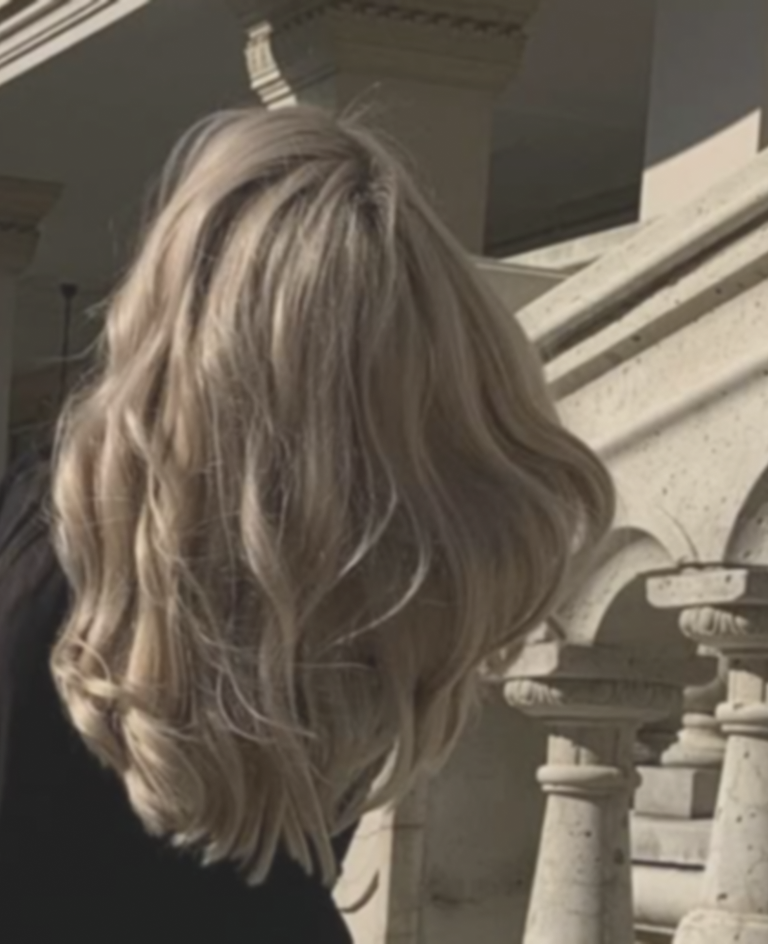
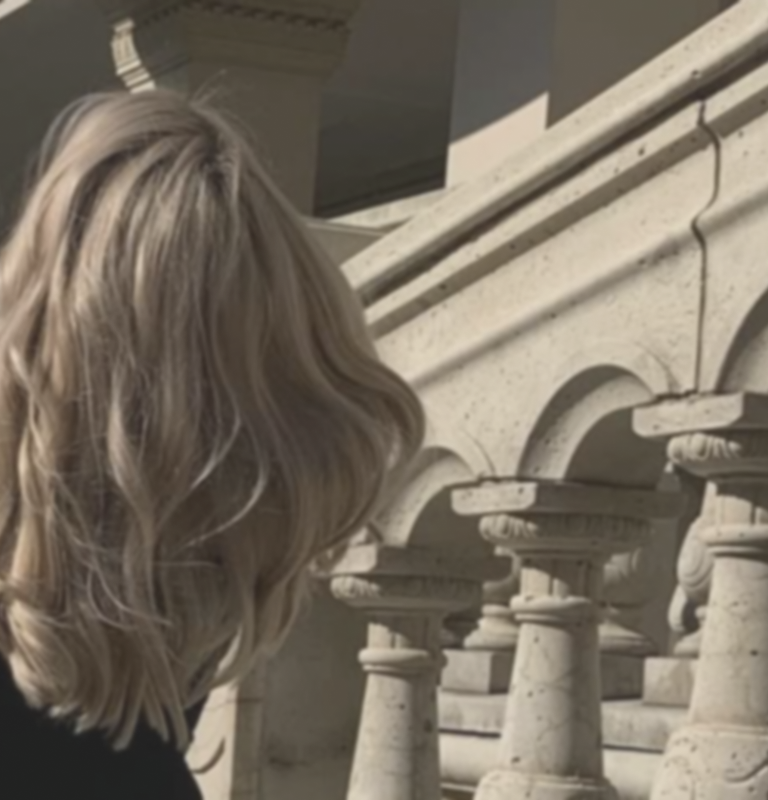
Fixes - price + main photo (tablet)

diff --git a/en/coloring.html b/en/coloring.html
@@ -33,7 +33,7 @@
         <div class="coloring-page-price-action-footnote">
             <div class="coloring-page-heading-price-action">
                 <div class="coloring-page coloring">
-                    <div class="text-header boveheading24regulardark">Hair Coloring Prices</div>
+                    <div class="text-header boveheading24regulardark">Hair Coloring</div>
                     <div class="coloring-rectangle coloring"></div>
                     <div class="coloring-page coloring bovebody20regularlight">
                         <div class="coloring-prices">
@@ -45,7 +45,7 @@
                             <div class="price">from 3500 ₴</div>
                         </div>
                         <div class="coloring-prices">
-                            <div class="text-regular">Single-tone <br />Coloring</div>
+                            <div class="text-regular">Single-tone Coloring</div>
                             <div class="price">3500-6000 ₴</div>
                         </div>
                         <div class="coloring-prices">
@@ -58,7 +58,7 @@
                         </div>
                         <div class="coloring-prices">
                             <p class="text-regular">
-                                Total blond <br />(root lightening<br />
+                                Total blond (root lightening<br />
                                 1.5 cm + toning)
                             </p>
                             <div class="price">4000-8000 ₴</div>
@@ -68,15 +68,15 @@
                             <div class="price">from 8000 ₴</div>
                         </div>
                         <div class="coloring-prices">
-                            <div class="text-regular">Partial Complex <br />Coloring</div>
+                            <div class="text-regular">Partial Complex Coloring</div>
                             <div class="price">from 8000 ₴</div>
                         </div>
                         <div class="coloring-prices">
-                            <div class="text-regular">Advanced Coloring<br /> Techniques</div>
+                            <div class="text-regular">Advanced Coloring Techniques</div>
                             <div class="price">from 12000 ₴</div>
                         </div>
                         <div class="coloring-prices">
-                            <div class="text-regular">Removing Black<br /> Color</div>
+                            <div class="text-regular">Removing Black Color</div>
                             <div class="price">from 20000 ₴</div>
                         </div>
                     </div>
@@ -93,7 +93,7 @@
         </div>
         <div class="coloring-page-title-body-text-footnote">
             <div class="coloring-page coloring">
-                <div class="text-header boveheading24regulardark">Color is a form of self-expression.</div>
+                <div class="text-header-2 boveheading24regulardark">Color is a form of self-expression.</div>
                 <p class="text-regular-color bovebody20regularlight">
                     We know how to bring out the best in your hair, whether you want a bold new shade, a gentle balayage, or a refreshing coloring to cover gray hair. Our professional approach guarantees bright and long-lasting results. The relaxed studio atmosphere and personalized attention make every visit an enjoyable experience. Additionally, the stylist uses only high-quality products that nourish your hair, keeping it healthy and well-groomed.
                 </p>

diff --git a/coloring.html b/coloring.html
@@ -32,7 +32,7 @@
           <div class="coloring-page-price-action-footnote">
             <div class="coloring-page-heading-price-action">
               <div class="coloring-page coloring">
-                <div class="text-header boveheading24regulardark">Ціни на фарбування</div>
+                <div class="text-header boveheading24regulardark">Фарбування</div>
                 <div class="coloring-rectangle coloring"></div>
                 <div class="coloring-page coloring bovebody20regularlight">
                   <div class="coloring-prices">
@@ -44,7 +44,7 @@
                     <div class="price">від 3500 ₴</div>
                   </div>
                   <div class="coloring-prices">
-                    <div class="text-regular">Однотонне <br />фарбування</div>
+                    <div class="text-regular">Однотонне фарбування</div>
                     <div class="price">3500-6000 ₴</div>
                   </div>
                   <div class="coloring-prices">
@@ -57,7 +57,7 @@
                   </div>
                   <div class="coloring-prices">
                     <p class="text-regular">
-                      Total blond <br />(висвітлення кореня<br />
+                      Total blond (висвітлення кореня<br />
                       1.5 см + тонування)
                     </p>
                     <div class="price">4000-8000 ₴</div>
@@ -67,15 +67,15 @@
                     <div class="price">від 8000 ₴</div>
                   </div>
                   <div class="coloring-prices">
-                    <div class="text-regular">Складне фарбування<br />частково</div>
+                    <div class="text-regular">Складне фарбування частково</div>
                     <div class="price">від 8000 ₴</div>
                   </div>
                   <div class="coloring-prices">
-                    <div class="text-regular">Складні техніки <br />фарбування</div>
+                    <div class="text-regular">Складні техніки фарбування</div>
                     <div class="price">від 12000 ₴</div>
                   </div>
                   <div class="coloring-prices">
-                    <div class="text-regular">Вихід з чорного<br />кольору</div>
+                    <div class="text-regular">Вихід з чорного кольору</div>
                     <div class="price">від 20000 ₴</div>
                   </div>
                 </div>
@@ -90,7 +90,7 @@
           </div>
           <div class="coloring-page-title-body-text-footnote">
             <div class="coloring-page coloring">
-              <div class="text-header boveheading24regulardark">Колір–це форма самовираження.</div>
+              <div class="text-header-2 boveheading24regulardark">Колір–це форма самовираження.</div>
               <p class="text-regular-color bovebody20regularlight">
                 Ми знаємо, як розкрити найкраще у вашому волоссі, незалежно від того, чи бажаєте ви сміливий новий
                 відтінок, ніжний балаяж чи освіжаюче фарбування, щоб приховати сивину. Професійний підхід гарантує

diff --git a/restoration.html b/restoration.html
@@ -32,7 +32,7 @@
           <div class="restoration-page-price-action-footnote">
             <div class="restoration-page-heading-price-action">
               <div class="restoration-1">
-                <div class="text-header boveheading24regulardark">Ціни на відновлення</div>
+                <div class="text-header boveheading24regulardark">Догляд та відновлення</div>
                 <div class="restoration-rectangle restoration-1"></div>
                 <div class="restoration-1 bovebody20regularlight">
                   <div class="_-restorations">
@@ -40,11 +40,11 @@
                     <div class="price">1500 ₴</div>
                   </div>
                   <div class="_-restorations">
-                    <div class="text-regular">Пілінг д/п</div>
+                    <div class="text-regular">Пілінг додаткова послуга</div>
                     <div class="price">500 ₴</div>
                   </div>
                   <div class="_-restorations bovebody20regularlight">
-                    <div class="text-regular">Реконструкція <br />волосся</div>
+                    <div class="text-regular">Реконструкція волосся</div>
                     <div class="price">2500-5000 ₴</div>
                   </div>
                 </div>
@@ -59,7 +59,7 @@
           </div>
           <div class="restoration-page-tit">
             <div class="restoration restoration-1">
-              <p class="text-header boveheading24regulardark">Справжня краса починається з турботи</p>
+              <p class="text-header-2 boveheading24regulardark">Справжня краса починається з турботи.</p>
               <p class="text-regular-color bovebody20regularlight">
                 Наші процедури спрямовані не лише на зовнішній ефект, а й на глибоке оздоровлення волосся та шкіри
                 голови. Майстер створює індивідуальні схеми процедур: глибоке живлення, реконструкція, термозахист,

diff --git a/haircut.html b/haircut.html
@@ -33,7 +33,7 @@
           <div class="re-haircut-page-price-action-footnote">
             <div class="haircut-page-heading-price-action">
               <div class="haircut-page">
-                <div class="text-headers boveheading24regulardark">Ціни на стрижки</div>
+                <div class="text-headers boveheading24regulardark">Cтрижка</div>
                 <div class="haircut-page-rectangle"></div>
                 <div class="haircut-page bovebody20regularlight">
                   <div class="haircut-prices">
@@ -72,7 +72,7 @@
           </div>
           <div class="haircut-page-title-body-text-footnote">
             <div class="haircut-page">
-              <div class="text-headers boveheading24regulardark">Твоя стрижка–як продовження характеру.</div>
+              <div class="text-headers-2 boveheading24regulardark">Твоя стрижка–як продовження характеру.</div>
               <p class="text-regular bovebody20regularlight">
                 Ми пропонуємо індивідуальний підхід та увагу до деталей. Майстер поєднує позачасові техніки із сучасними
                 тенденціями, створюючи образ, який є унікальним. <br />В послугу входить:<br />• Миття волосся шампунем та

diff --git a/en/haircut.html b/en/haircut.html
@@ -33,7 +33,7 @@
         <div class="re-haircut-page-price-action-footnote">
             <div class="haircut-page-heading-price-action">
                 <div class="haircut-page">
-                    <div class="text-headers boveheading24regulardark">Haircut Prices</div>
+                    <div class="text-headers boveheading24regulardark">Haircuts</div>
                     <div class="haircut-page-rectangle"></div>
                     <div class="haircut-page bovebody20regularlight">
                         <div class="haircut-prices">
@@ -74,7 +74,7 @@
         </div>
         <div class="haircut-page-title-body-text-footnote">
             <div class="haircut-page">
-                <div class="text-headers boveheading24regulardark">Your haircut — an extension of your character.</div>
+                <div class="text-headers-2 boveheading24regulardark">Your haircut — an extension of your character.</div>
                 <p class="text-regular bovebody20regularlight">
                     We offer a personalized approach and attention to detail. The stylist combines timeless techniques with modern trends, creating a look that is unique. <br />The service includes:<br />• Shampoo and conditioner treatment;<br />• Haircut of any complexity;<br />• Styling with thermal protection.<br />We use only professional tools and premium products.
                 </p>

diff --git a/en/restoration.html b/en/restoration.html
@@ -32,7 +32,7 @@
         <div class="restoration-page-price-action-footnote">
             <div class="restoration-page-heading-price-action">
                 <div class="restoration-1">
-                    <div class="text-header boveheading24regulardark">Restoration Prices</div>
+                    <div class="text-header boveheading24regulardark">Care and restoration</div>
                     <div class="restoration-rectangle restoration-1"></div>
                     <div class="restoration-1 bovebody20regularlight">
                         <div class="_-restorations">
@@ -61,7 +61,7 @@
         </div>
         <div class="restoration-page-tit">
             <div class="restoration restoration-1">
-                <p class="text-header boveheading24regulardark">True beauty begins with care</p>
+                <p class="text-header-2 boveheading24regulardark">True beauty begins with care.</p>
                 <p class="text-regular-color bovebody20regularlight">
                     Our procedures focus not only on appearance but also on deep hair and scalp health. The specialist creates
                     personalized treatment plans: deep nourishment, reconstruction, heat protection, restoring shine and elasticity.

diff --git a/css/home.css b/css/home.css
@@ -810,27 +810,30 @@ gap:20px;
 @media screen and (min-width: 768px) and (max-width: 1439px){
     .main-photo-container {
         background-image: url(../img/mane-photo-2.png);
-        min-width: 48rem;
-        /* 768px */
-        height: 59rem;
-        /* 944px */
+min-width: 768px;
+        height: 800px;
     }
 
     .bove-main-photo {
-        height: 59rem;
+        height: 800px;
         /* 944px */
         position: relative;
         width: 48rem;
         /* 768px */
         margin: 0 auto;
     }
+    .bove_-big_logo {
+    height: 228px;
+    width: 389px;
+}
 
     .main_-logo-action {
-        top: 9.75rem;
-        /* 156px */
-        top: 50%;
-        left: 50%;
-        transform: translate(-50%, -50%);
+        top: 24%;
+        left: 29%;
+        /* transform: translate(-50%, -50%); */
+        width: 508px;
+        height: 432px;
+        gap:50px;
     }
 
     .services {

diff --git a/css/coloring.css b/css/coloring.css
@@ -35,9 +35,18 @@
   flex: 0 0 auto;
   flex-direction: column;
   gap: 20px;
+      width: 100%;
 }
-
  .text-header {
+  align-self: stretch;
+  color: var(--textprimarydark);
+  font-weight: 400;
+  line-height: 31.2px;
+  margin-top: -1.00px;
+  position: relative;
+  text-align: center;
+}
+ .text-header-2 {
   align-self: stretch;
   color: var(--textprimarydark);
   font-weight: 400;
@@ -84,6 +93,7 @@
   white-space: nowrap;
   width: fit-content;
    font-variant-numeric: lining-nums;
+   display:none;
 }
 
  .buttons {

diff --git a/css/restoration.css b/css/restoration.css
@@ -47,6 +47,16 @@
   line-height: 31.2px;
   margin-top: -1.00px;
   position: relative;
+  text-align: center;
+}
+
+ .text-header-2 {
+  align-self: stretch;
+  color: var(--textprimarydark);
+  font-weight: 400;
+  line-height: 31.2px;
+  margin-top: -1.00px;
+  position: relative;
 }
  .restoration-rectangle {
   align-self: stretch;
@@ -87,6 +97,7 @@
   white-space: nowrap;
   width: fit-content;
       font-variant-numeric: lining-nums;
+      display: none;
 }
 
  .buttons {

diff --git a/css/haircut.css b/css/haircut.css
@@ -47,6 +47,16 @@
   line-height: 31.2px;
   margin-top: -1.00px;
   position: relative;
+  text-align: center;
+
+}
+ .text-headers-2 {
+  align-self: stretch;
+  color: var(--textprimarydark);
+  font-weight: 400;
+  line-height: 31.2px;
+  margin-top: -1.00px;
+  position: relative;
   text-align: left;
 }
 
@@ -89,6 +99,7 @@ justify-content: space-between;
   white-space: nowrap;
   width: fit-content;
   font-variant-numeric: lining-nums;
+  display:none;
 }
 
  .buttons {

diff --git a/footer.html b/footer.html
@@ -66,6 +66,6 @@
 </footer>
             <div class="footer-bottom">
         <p>
-            &copy; <span id="currentYear"></span> Власник сайту: BOVE | Розробник: Tetiana Chopovdia. Всі права захищені.
+            &copy; <span id="currentYear"></span> Власник сайту: BOVÉ | Дизайн: Tetiana Chopovdia. Всі права захищені.
         </p>
     </div>

diff --git a/en/index.html b/en/index.html
@@ -31,7 +31,7 @@
         <div class="main_-logo-action">
             <img class="bove_-big_logo" src="/img/BOVE-big-LOGO.png" alt="BOVE_Big_LOGO" />
             <div class="button-white" onclick="openModal()">
-                <div class="text-button-white mobtext16bove">Book</div>
+                <div class="text-button-white mobtext16bove">Book Now</div>
             </div>
         </div>
     </div>
